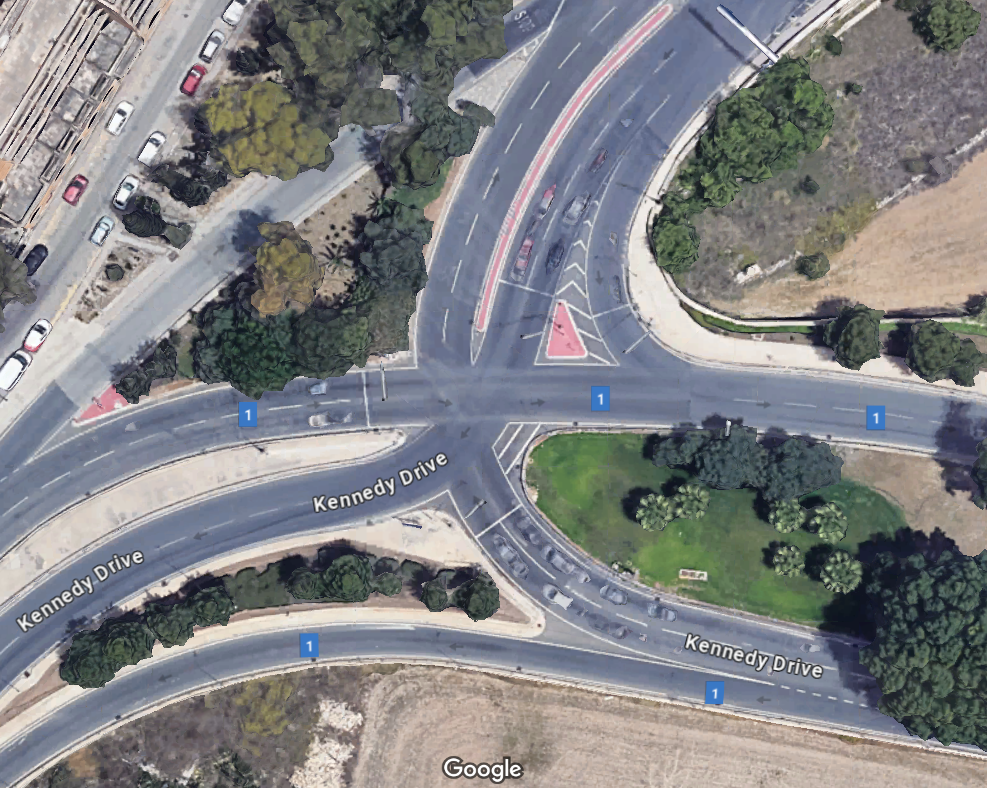
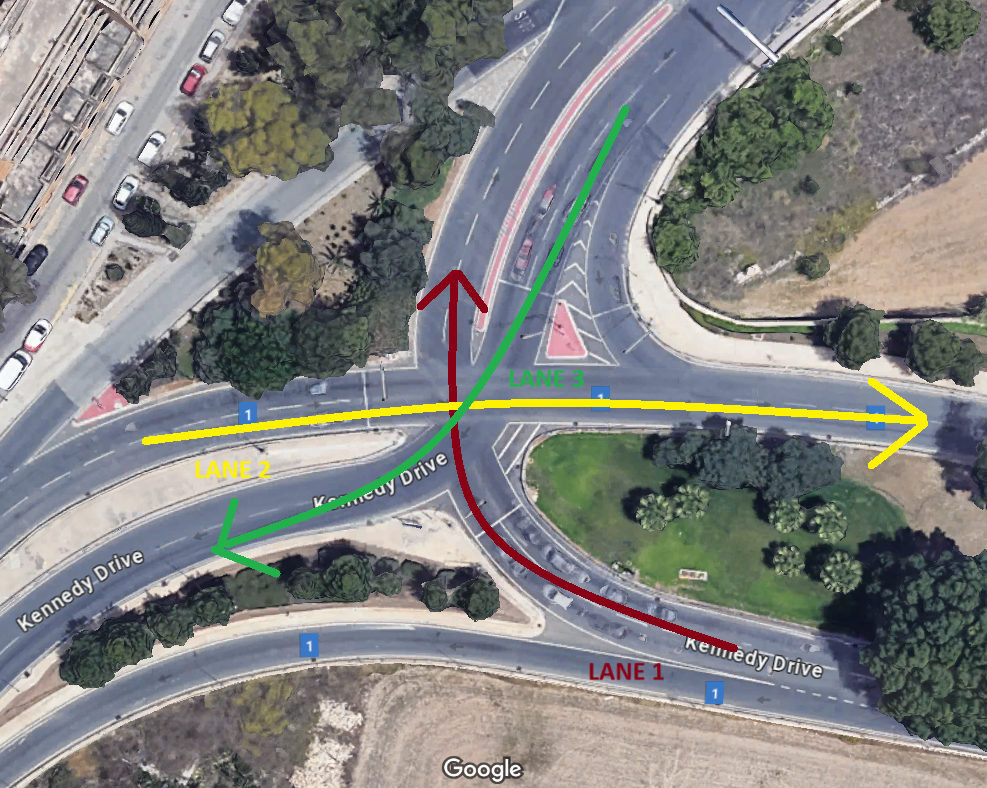
Update implemetation section

diff --git a/README.md b/README.md
@@ -3,6 +3,7 @@
 1. [Introduction](#Introduction)
 2. [Installation](#Model-Explanation)
 3. [Running](#Code-Structure)
+3. [Implementation](#Implementation)
 4. [Srategies](#Data)
 5. [Configuration](#Methodology)
 6. [Results](#Results)
@@ -11,7 +12,7 @@
 ## Introduction
 Commuting to and from work on a daily basis is a frustrating experience to say the least.
 It is especially frustrating when you can pinpoint improvements in the traffic system, that can potentially easily be implemented.
-One such annoyance is the Kennedy Drive traffic lights shown in the below google maps image.
+One such annoyance is the Kennedy Drive traffic lights shown in the below google maps image (Coordinates: 35.94509669780911, 14.412841360782597).
 
 This is a 3-road junction, with each road having two lanes, and each traffic light having a duration of exactly 20 seconds
 before switching from green to red (yes, I timed it multiple times while I am stuck in traffic).
@@ -35,7 +36,7 @@ is loaded shall contain all the configuration of the system and models.
 ```bash
 python simulator.py
 ```
-## Implementation [WIP]
+## Implementation
 In this image we can see an example flow of traffic for a particular lane.
 We can observe the cyclic effect, beginning with a 40-second period of worsening traffic.
 This is typically followed by a duration of 20 seconds where vehicles are dispelled out of the queue,
@@ -43,6 +44,102 @@ usually at a higher rate than that of entry, explaining the steeper downward gra
 the 20-seconds is not enough to compensate for the 40-second incline in traffic. This generates an overall
 upward trend in traffic.
 ![flow_simulation_closeup](https://github.com/DylanZammit/Traffic-Control-Simulator/blob/master/img/flow_sim_incline.png?raw=true)
+### Poisson Process
+The flow of traffic across time is assumed to follow a Poisson Process. This model revolves around the Poisson distribution, which is a natural
+distribution used to count random objects.  Another application of the Poisson distribution is used to model
+the number of goals scored by a team in a football match. This in turn is used to model the probabilities of a team winning
+an encounter against an opponent. An implementation and more detailed explanation is given in this [Github Project](https://github.com/DylanZammit/Football-Odds-Prediction).
+
+There are two ways two define such a process.
+
+* The first definition states that the duration between any two successive arrivals follows an exponential distribution with some rate parameter $`\lambda`$.
+* The second definition states that for any time interval of length $`t`$ seconds, the number of cars arriving is Poisson distributed with mean parameter $`\lambda`$.
+
+The second definition is more relevant for the implementation of this project as shall be described in the next section. 
+### Simulation
+Each road is considered as being defined by a queue of cars incoming using a FIFO process. 
+
+The brains of the system is defined in the `Controller` class. This will contain all of our universe's information such as
+
+* the lanes and their metadata
+* the cars which belong in a lane queue and in turn the controller
+* the clock, which keeps track of the time taken since the beginning of the simulation
+* the incoming/outgoing cars in all lanes
+* the strategy deciding when a traffic light should turn green and for how long.
+
+The controller is first defined, and the `run_iter` method is called iteratively in a loop for a desired duration.
+Each iteration corresponds to 1 second in real-life. This method performs the following steps:
+1) Increment the time by one second.
+2) Update each lane with new incoming cars by sampling from a Poisson distribution with rate $`\lambda_i`$ for lane $`i`$.
+3) If the last car in the current active lane exited $`1/\mu`$ seconds ago, then a car should exit.
+4) Check if the current active lane should turn red based on the implemented strategy.
+5) Optionally save any metadata for later analysis.
+
+<details>
+<summary>run_iter</summary>
+
+```python
+def run_iter(self) -> None:
+
+    self.clock.tick()
+
+    for lane in self.lanes:
+        lane.update_new_active()
+
+    num_active_cars = self.active_lane.num_active_cars
+    time_since_last_exit = self.clock.time - self.active_lane.last_exit_time
+
+    if num_active_cars > 0 and time_since_last_exit >= (1 / self.exit_rate):
+        self.active_lane.drive_car()
+
+    if self.is_time_up():
+        self.run_next_lane()
+
+    if self.save_hist:
+        self.update_hist()
+```
+
+</details>
+
+### Strategy Setup
+The `Controller` class enforces implementation of the `is_time_up` method. This method should take all information
+of the system, and return a boolean depending no whether it is time to switch lane or not. This is essentially the brain
+of the model. Thus one would need to create their own child-controller class that inherits from `Controller`, implementing
+at least this method (and optionally more if required).
+
+For instance below is the simplest implemented method of the Baseline strategy that will be described in more detail in an
+upcoming section.
+
+<details>
+<summary>Baseline Strategy</summary>
+
+```python
+class ConstantController(Controller):
+
+    def __init__(self, wait_time: int, **kwargs):
+        super().__init__(**kwargs)
+        self.wait_time = wait_time
+
+    def is_time_up(self) -> bool:
+        is_max_time_elapsed = self.clock.diff(self.active_lane.active_since) > self.wait_time
+        return is_max_time_elapsed
+```
+
+</details>
+
+### Assumptions
+Below are some assumptions taken.
+
+* Number of cars arriving follows a Poisson distribution.
+* The exit rate is constant throughout the day, and it does not vary with the queue position of a car.
+* There is no yellow light.
+* All 3 lanes are independent of each other.
+
+The above models are quite relaxed in general. It would be interesting if they could be somehow modelled, but I would imagine it
+being quite difficult to do so. Consider for example the last point.
+Lanes being dependent on each other might occur if other junctions such a roundabout is in the vicinity of the traffic lights.
+In this case, one busy lane might clog up the roundabout, which in turn impacts the other lanes. 
+
 ## Strategies
 In this experiment we will implement and compare 3 different strategies. I will explain the three models in the followign subsections.
 ### Baseline Model
@@ -62,7 +159,7 @@ no cars enter the lane, the light automatically turns to red, so that other lane
 This should almost certainly help the flow of traffic under low or medium traffic conditions. 
 
 However, what happens when there is at least medium-to-high traffic? 
-If P=5s and all lanes see a new car at a relatively low rate of 4 seconds, then this model is precisely equivalent
+If $`P=5s`$ and all lanes see a new car at a relatively low rate of 4 seconds, then this model is precisely equivalent
 to the Baseline model. The next model attempts to address this issue.
 ### Snapshot Model
 This model attempts to use the rate of incoming cars to dynamically adjust the ratio of light duration between all lanes.
@@ -114,7 +211,7 @@ The three models were configured with the below parameters.
 Below is the yaml file including all of this configuration.
 
 <details>
-<summary>Output</summary>
+<summary>Example Config File</summary>
 
 ```yaml
 simulation:
